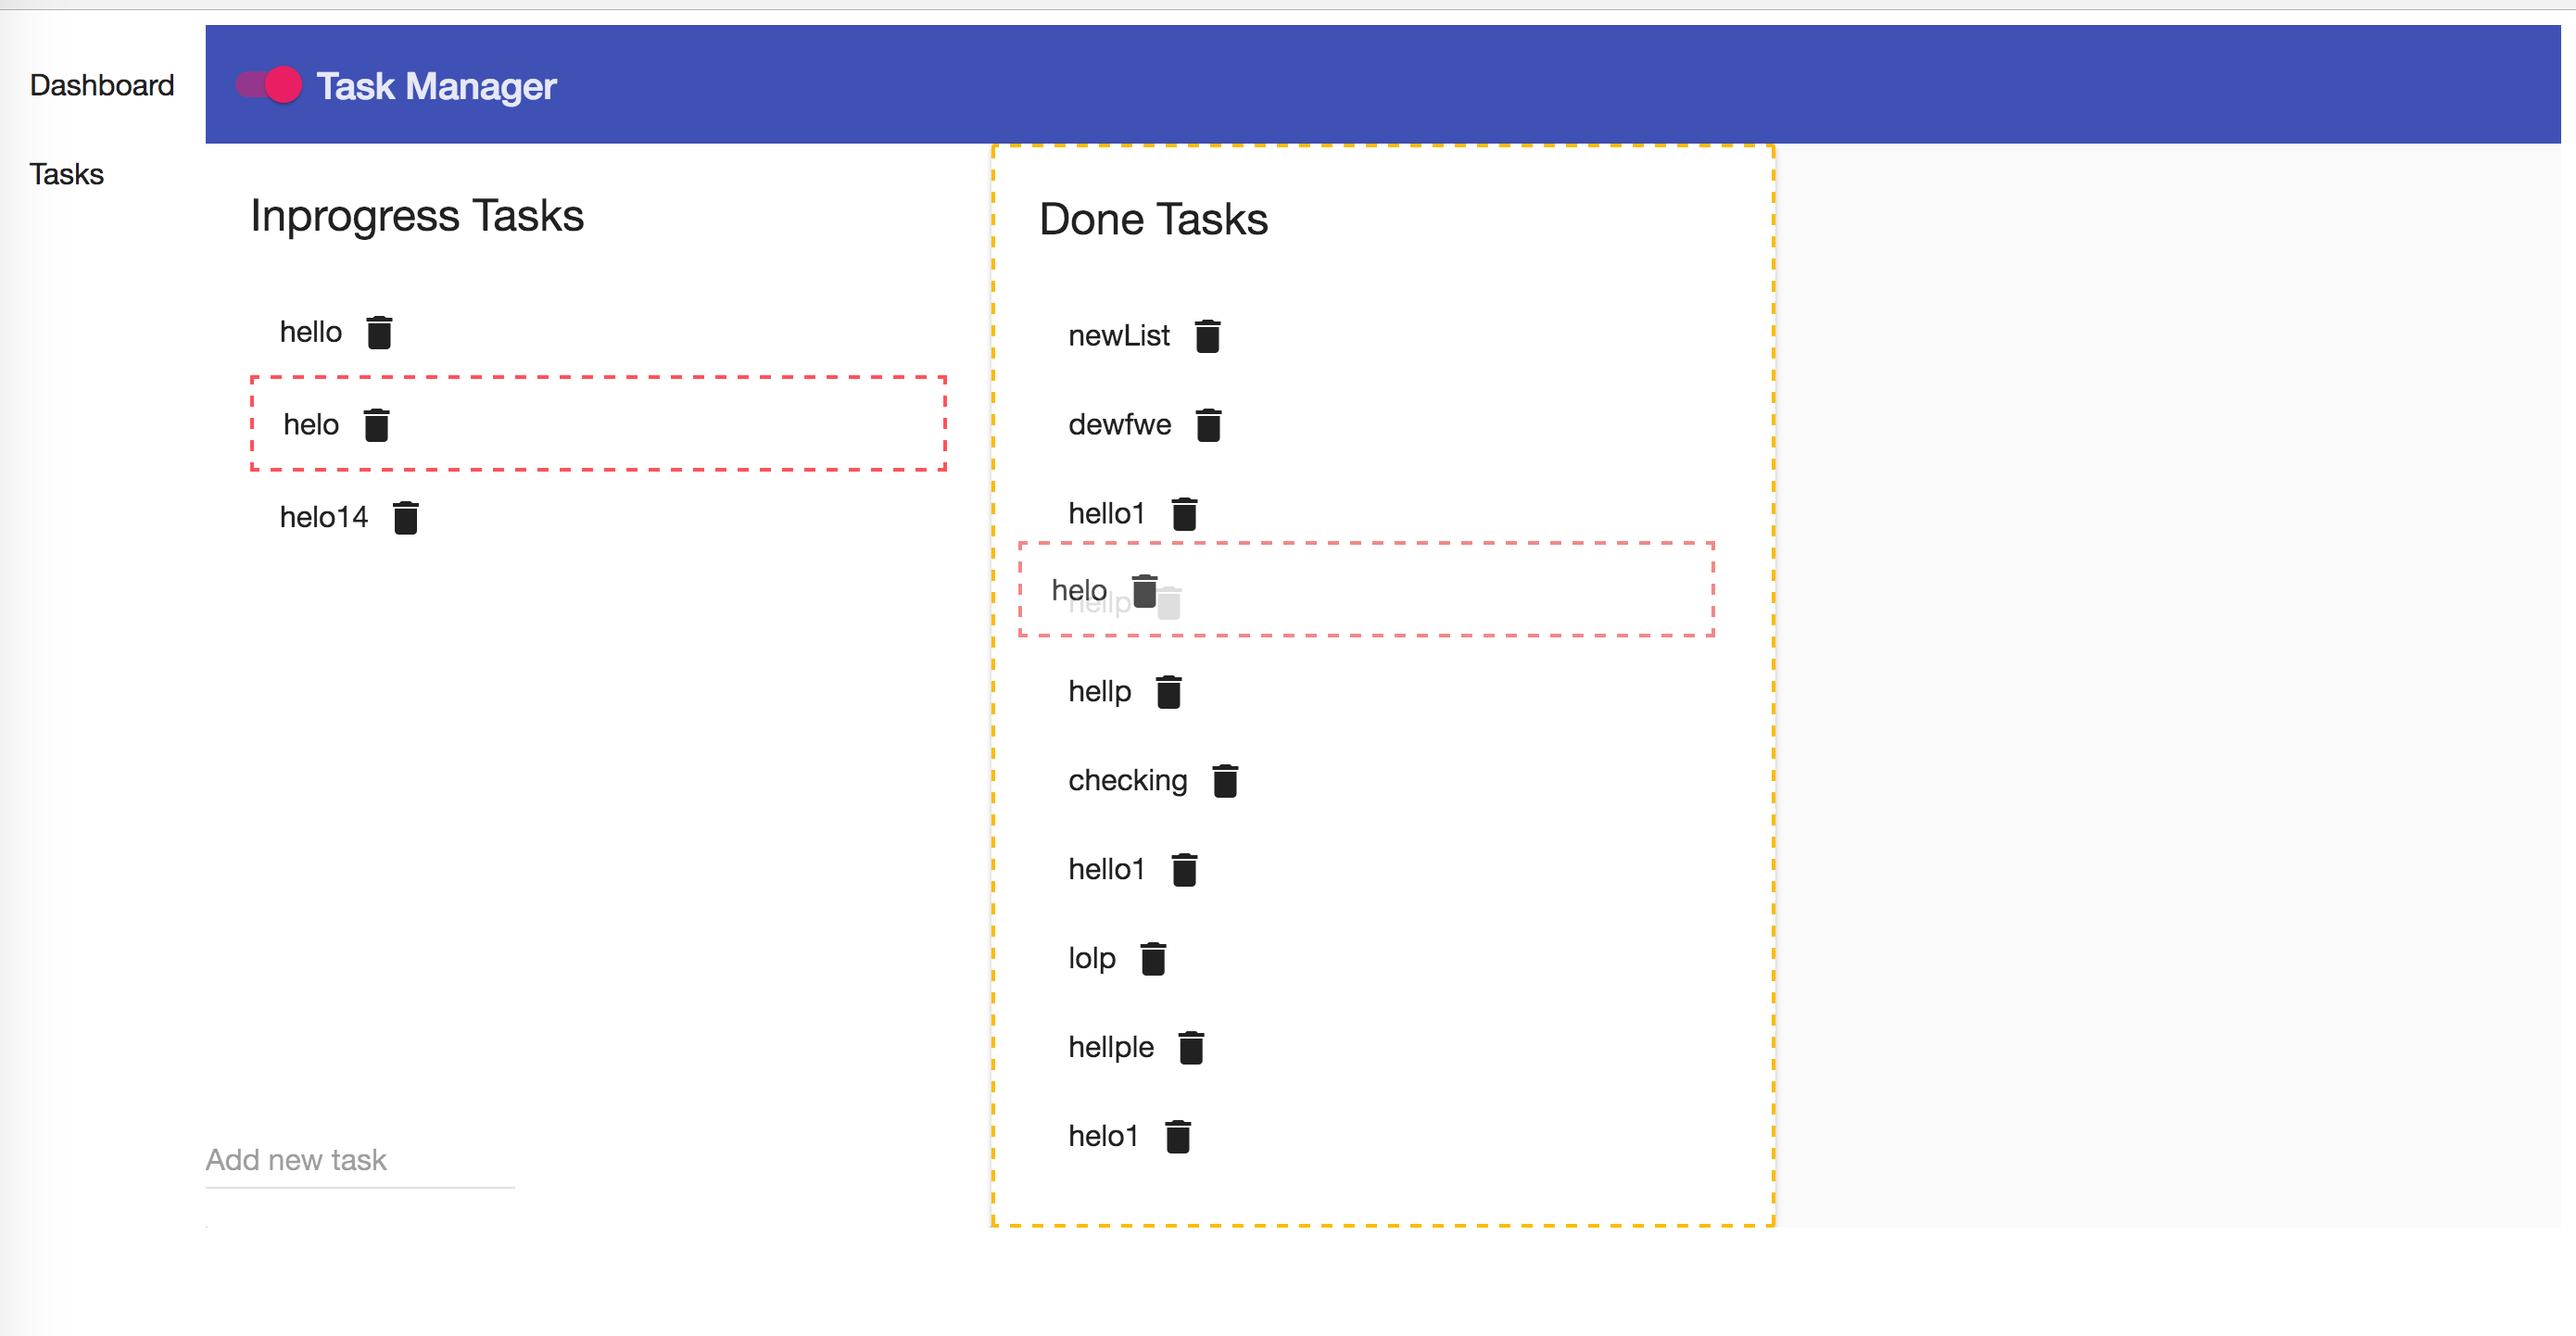
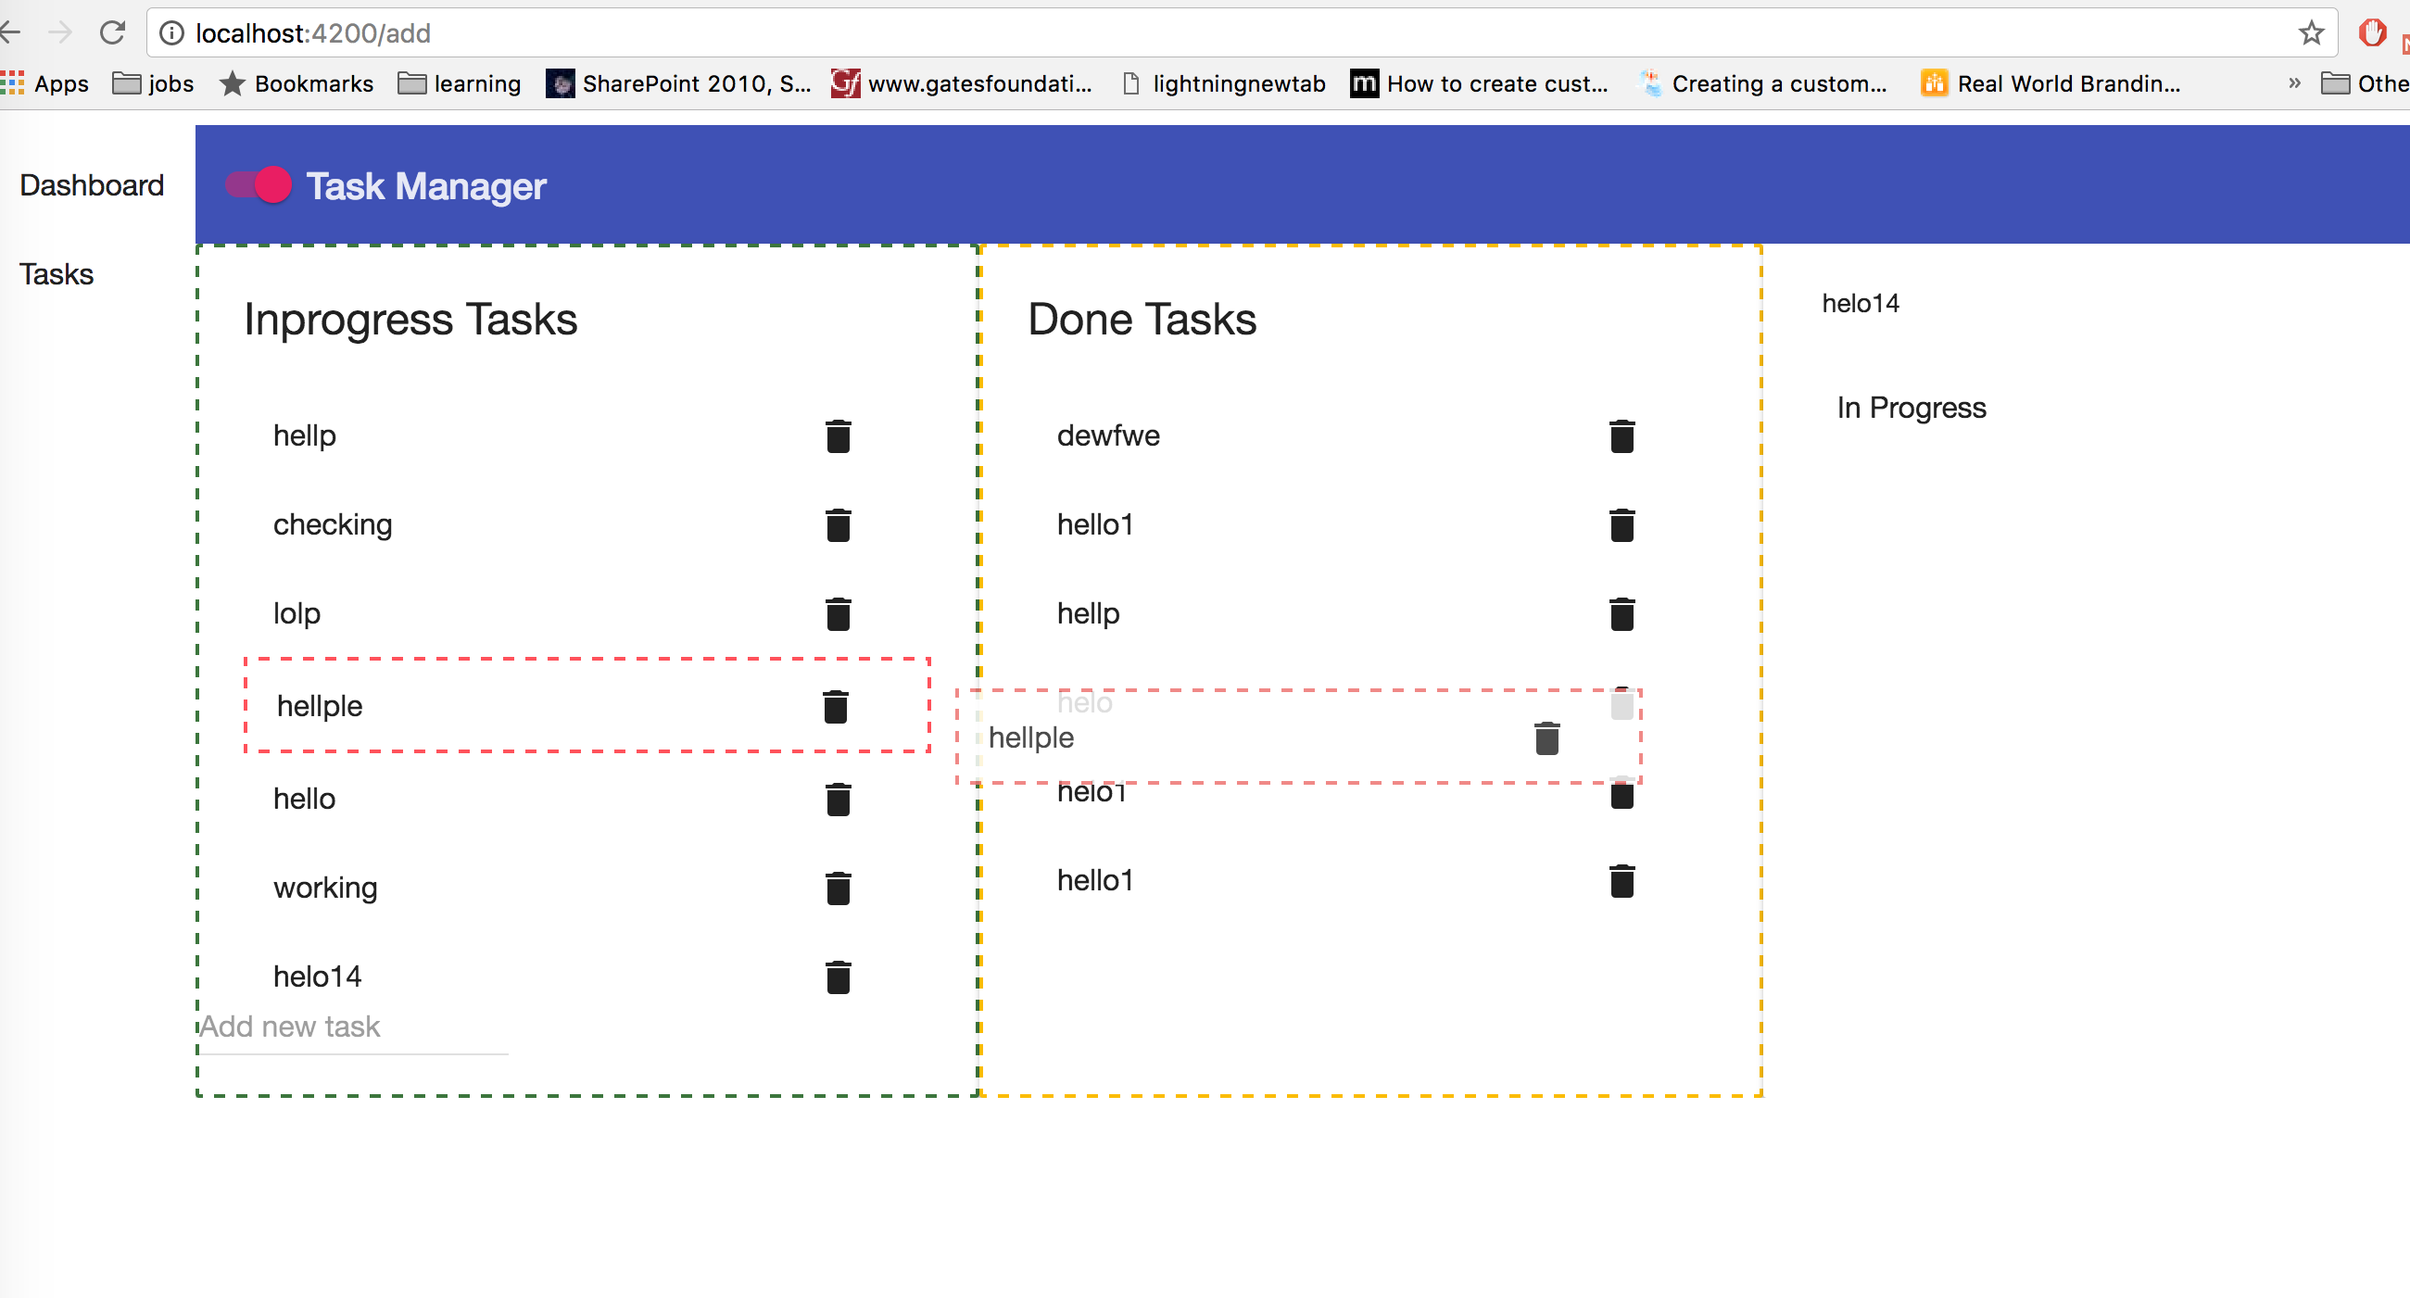
added new image shoot

diff --git a/src/app/task/task.component.html b/src/app/task/task.component.html
@@ -1,14 +1,14 @@
 <div fxLayout="row wrap" class="colored box nopad">
 
-    <md-card fxFlex="33.33%">
+    <md-card fxFlex="33.33%" droppable (onDrop)="DoneTask($event,'inprogress')">
         <md-card-title>
             Inprogress Tasks
         </md-card-title>
         <md-card-content>
             <md-list>
-                <md-list-item draggable [dragData]="task" *ngFor="let task of taskNotDone ,let lst= last">
-                    <span>{{task.title}}</span>
-                    <button md-icon-button (click)="removeTask(task._id,task.isDone)"><span mdTooltip="Delete"></span> <md-icon>delete</md-icon></button>
+                <md-list-item draggable [dragData]="task" (click)="setTask(task)" *ngFor="let task of taskNotDone ,let lst= last">
+                    <span fxFlex="80%">{{task.title}}</span>
+                    <button fxFlex="20%" md-icon-button (click)="removeTask(task._id,task.isDone)"><span mdTooltip="Delete"></span> <md-icon>delete</md-icon></button>
                 </md-list-item>
             </md-list>
         </md-card-content>
@@ -20,15 +20,15 @@
         </md-card-footer>
     </md-card>
 
-    <md-card fxFlex="33.33%" droppable (onDrop)="DoneTask($event)">
+    <md-card fxFlex="33.33%" droppable (onDrop)="DoneTask($event,'done')">
         <md-card-title>
             Done Tasks
         </md-card-title>
         <md-card-content>
             <md-list>
-                <md-list-item *ngFor="let task of taskDone  ,let lst= last">
-                    <span>{{task.title}}</span>
-                    <button md-icon-button (click)="removeTask(task._id,task.isDone)"><span mdTooltip="Delete"></span> <md-icon>delete</md-icon></button>
+                <md-list-item draggable [dragData]="task" (click)="setTask(task)" *ngFor="let task of taskDone  ,let lst= last">
+                    <span fxFlex="80%">{{task.title}}</span>
+                    <button fxFlex="20%" md-icon-button (click)="removeTask(task._id,task.isDone)"><span mdTooltip="Delete"></span> <md-icon>delete</md-icon></button>
                 </md-list-item>
 
 
@@ -36,6 +36,18 @@
         </md-card-content>
 
 
+    </md-card>
+
+    <md-card fxFlex="33.33%">
+        <md-card-header>
+            <md-card-title>{{task.title}}</md-card-title>
+        </md-card-header>
+        <md-card-content>
+            <md-list>
+                <md-list-item>{{task.isDone ? 'Done' : 'In Progress'}}</md-list-item>
+                <md-list-item>{{task.createdByDate | date}}</md-list-item>
+            </md-list>
+        </md-card-content>
     </md-card>
 
 </div>

diff --git a/src/app/task/task.component.ts b/src/app/task/task.component.ts
@@ -16,6 +16,7 @@ taskList = [];
 title= '' ;
 taskDone = [];
 taskNotDone = [];
+task = {};
 
   constructor(private taskService: TaskService, public mdDialog: MdDialog, public snackBar: MdSnackBar) { }
 
@@ -26,6 +27,9 @@ taskNotDone = [];
    this.taskDone = this.taskList.filter(tsk => tsk.isDone);
    this.taskNotDone = this.taskList.filter(tsk => !tsk.isDone);
    });
+  }
+  setTask(task){
+this.task = task;
   }
 
   addNewTask(newValue) {
@@ -56,13 +60,19 @@ this.taskNotDone.push(res);
          }
      });
   }
-  DoneTask(event) {
+  DoneTask(event, type) {
     if (event.dragData) {
       const task = event.dragData;
-         task.isDone = true;
+      if (task.isDone && type === 'inprogress'){
+           task.isDone = false;
+      }else if(!task.isDone && type === 'done') {
+        task.isDone = true;
+      }else{
+        return;
+      }
         this.taskService.update(task._id, task).subscribe(res => {
           this.removeTaskFromList(task._id,!task.isDone);
-        this.taskDone.push(task);
+        type === 'inprogress' ? this.taskNotDone.push(task):this.taskDone.push(task);
         this.snackBar.open('Task has been moved to Done', null, {
       duration: 2000,
     });
